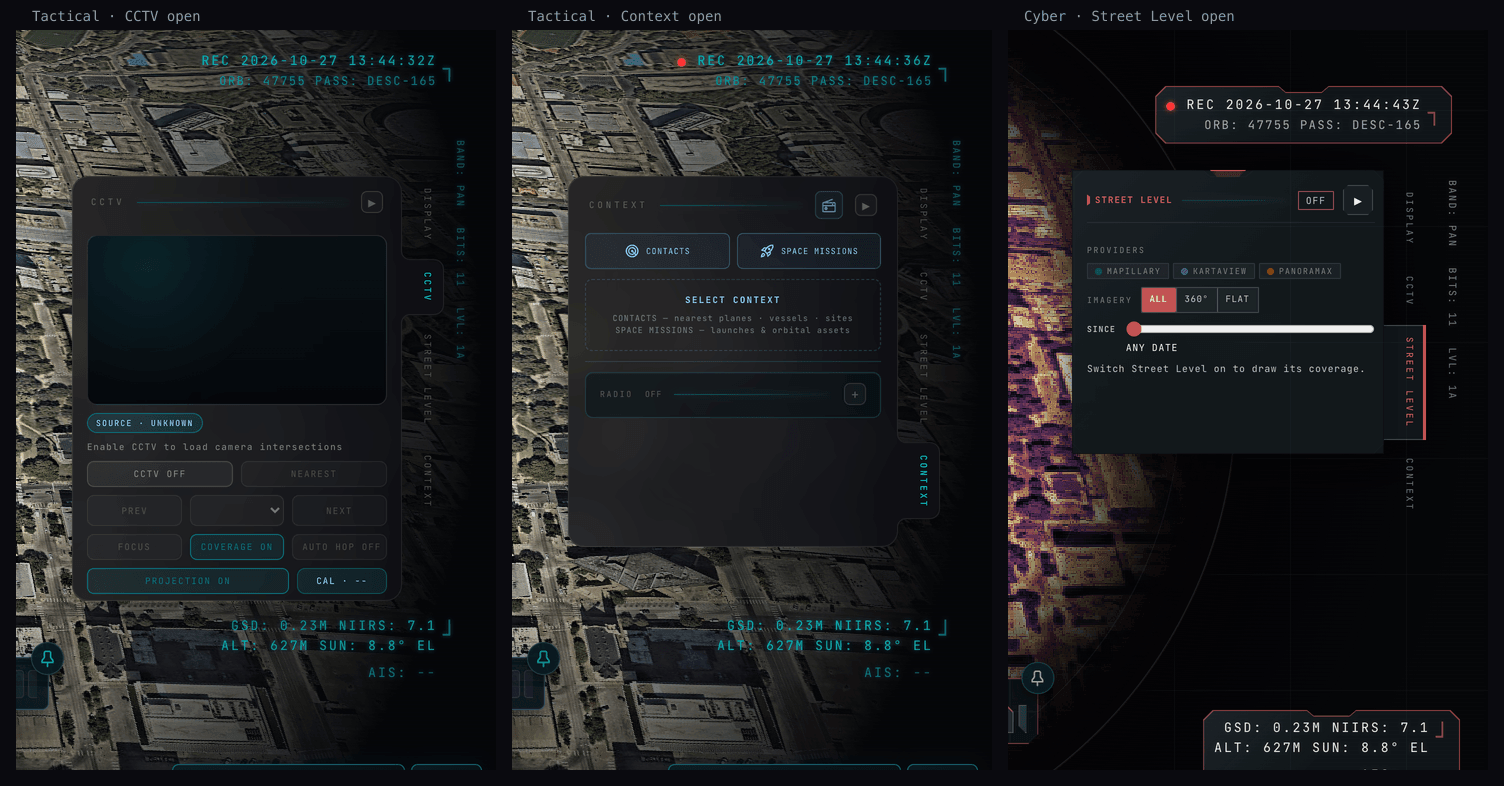
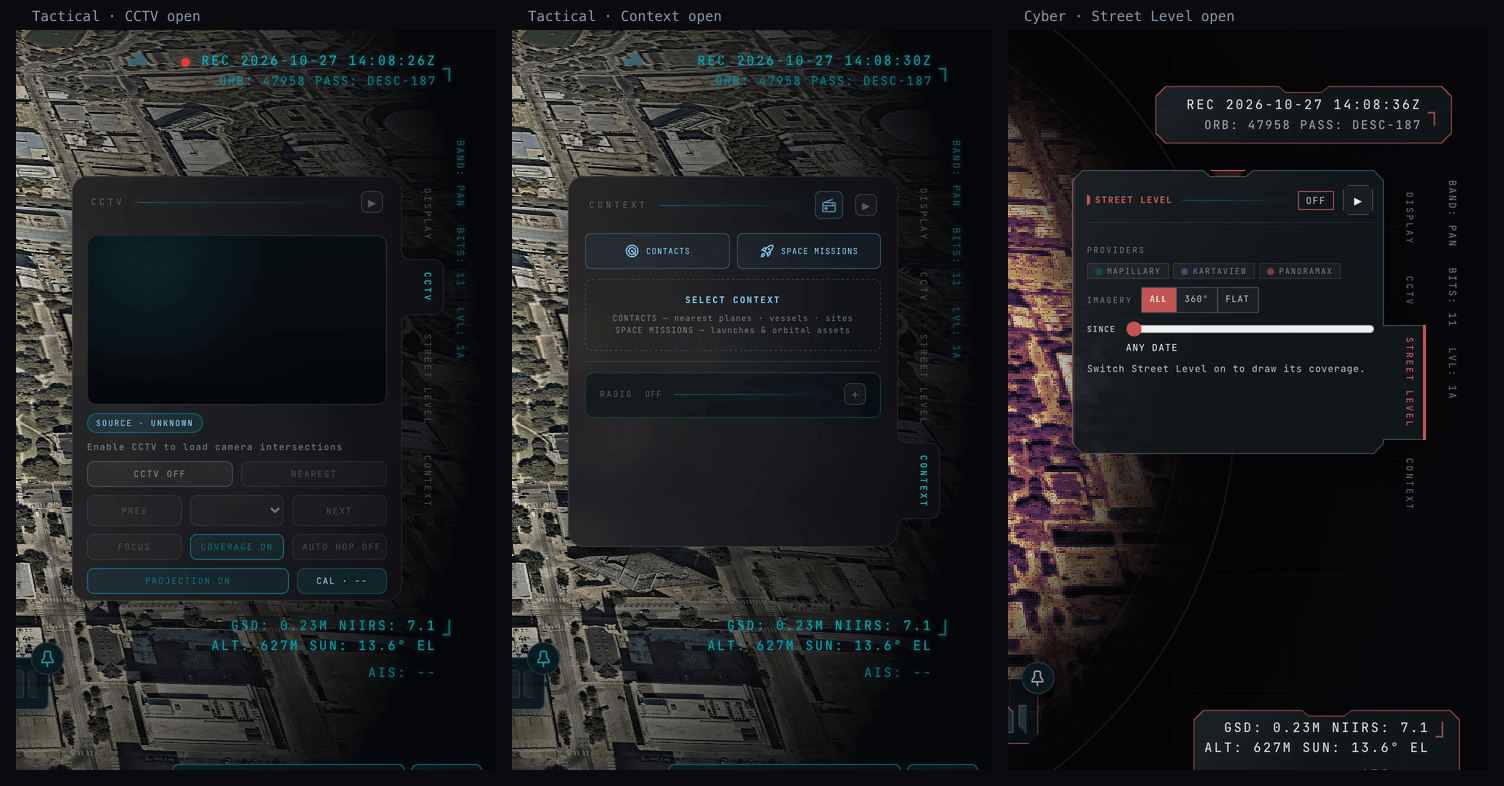
fix(ui): Cyber right rail wrapper draws no surface beside the open tab
Cyber dresses every .panel-collapsible wrapper as a surface with an inset ring, so a panel other than Display showed that ring as a line along its edge beside the open tab and a slightly different tone from the tab. Under the tabs the join is the only surface.

diff --git a/src/ui/styles/right-rail-tabs.css b/src/ui/styles/right-rail-tabs.css
@@ -256,6 +256,18 @@ body:not(.mobile-shell)
   color: var(--cyber-red-bright);
 }
 
+/* Cyber also dresses every .panel-collapsible wrapper as a surface with an
+   inset ring (cyber.css); under the tabs the join is the only surface, or
+   the ring shows as a line along the panel's edge beside the open tab. */
+:root[data-ui-theme='cyber']
+  body:not(.mobile-shell)
+  #right-context-rail[data-rail-tabs]
+  > [data-panel-id]:not(.collapsed) {
+  border-color: transparent;
+  background: none;
+  box-shadow: none;
+}
+
 :root[data-ui-theme='cyber'] .right-rail-join-glass {
   box-shadow:
     3px 0 0 rgba(196, 84, 84, 0.2) inset,

diff --git a/docs/CURRENT-STATE.md b/docs/CURRENT-STATE.md
@@ -1517,8 +1517,8 @@ panel's edge; Cyber's chamfered frame with its calibration bay and a square
 tab instead) and keeps a join element under the panels: one layer blurs and
 tints the backdrop inside the path, an SVG strokes the outline along it and
 another SVG casts the drop shadow, so the junction has no seam, doubled edge
-or second blur region. The open panel's card and the tab draw no surface,
-border, shadow or blur of their own. The join is re-measured through a
+or second blur region. The open panel's wrapper and card and the tab draw no
+surface, border, shadow or blur of their own (Cyber dresses the wrapper too). The join is re-measured through a
 ResizeObserver and on strip scroll; `--rail-tab-bottom` on the rail sets the
 open panel's minimum height, so a short panel such as Context still reaches
 its tab. A first tab level with the panel's top shares its top edge, with no
